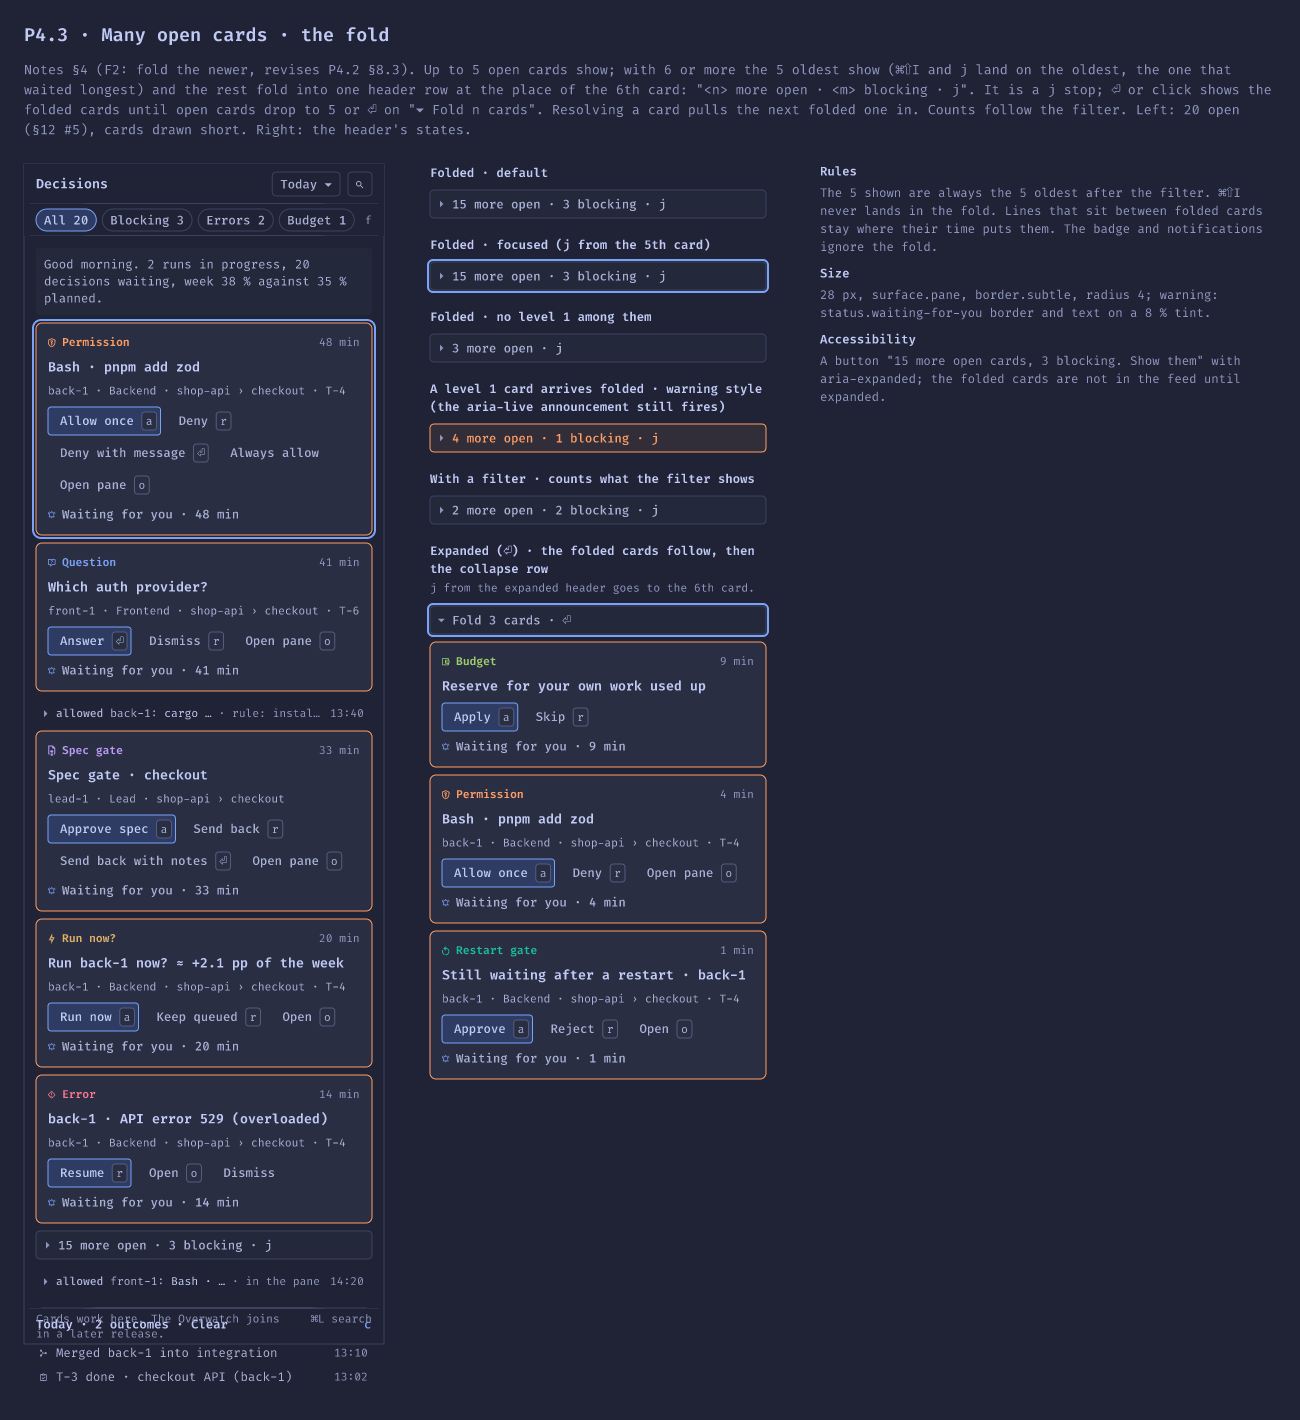
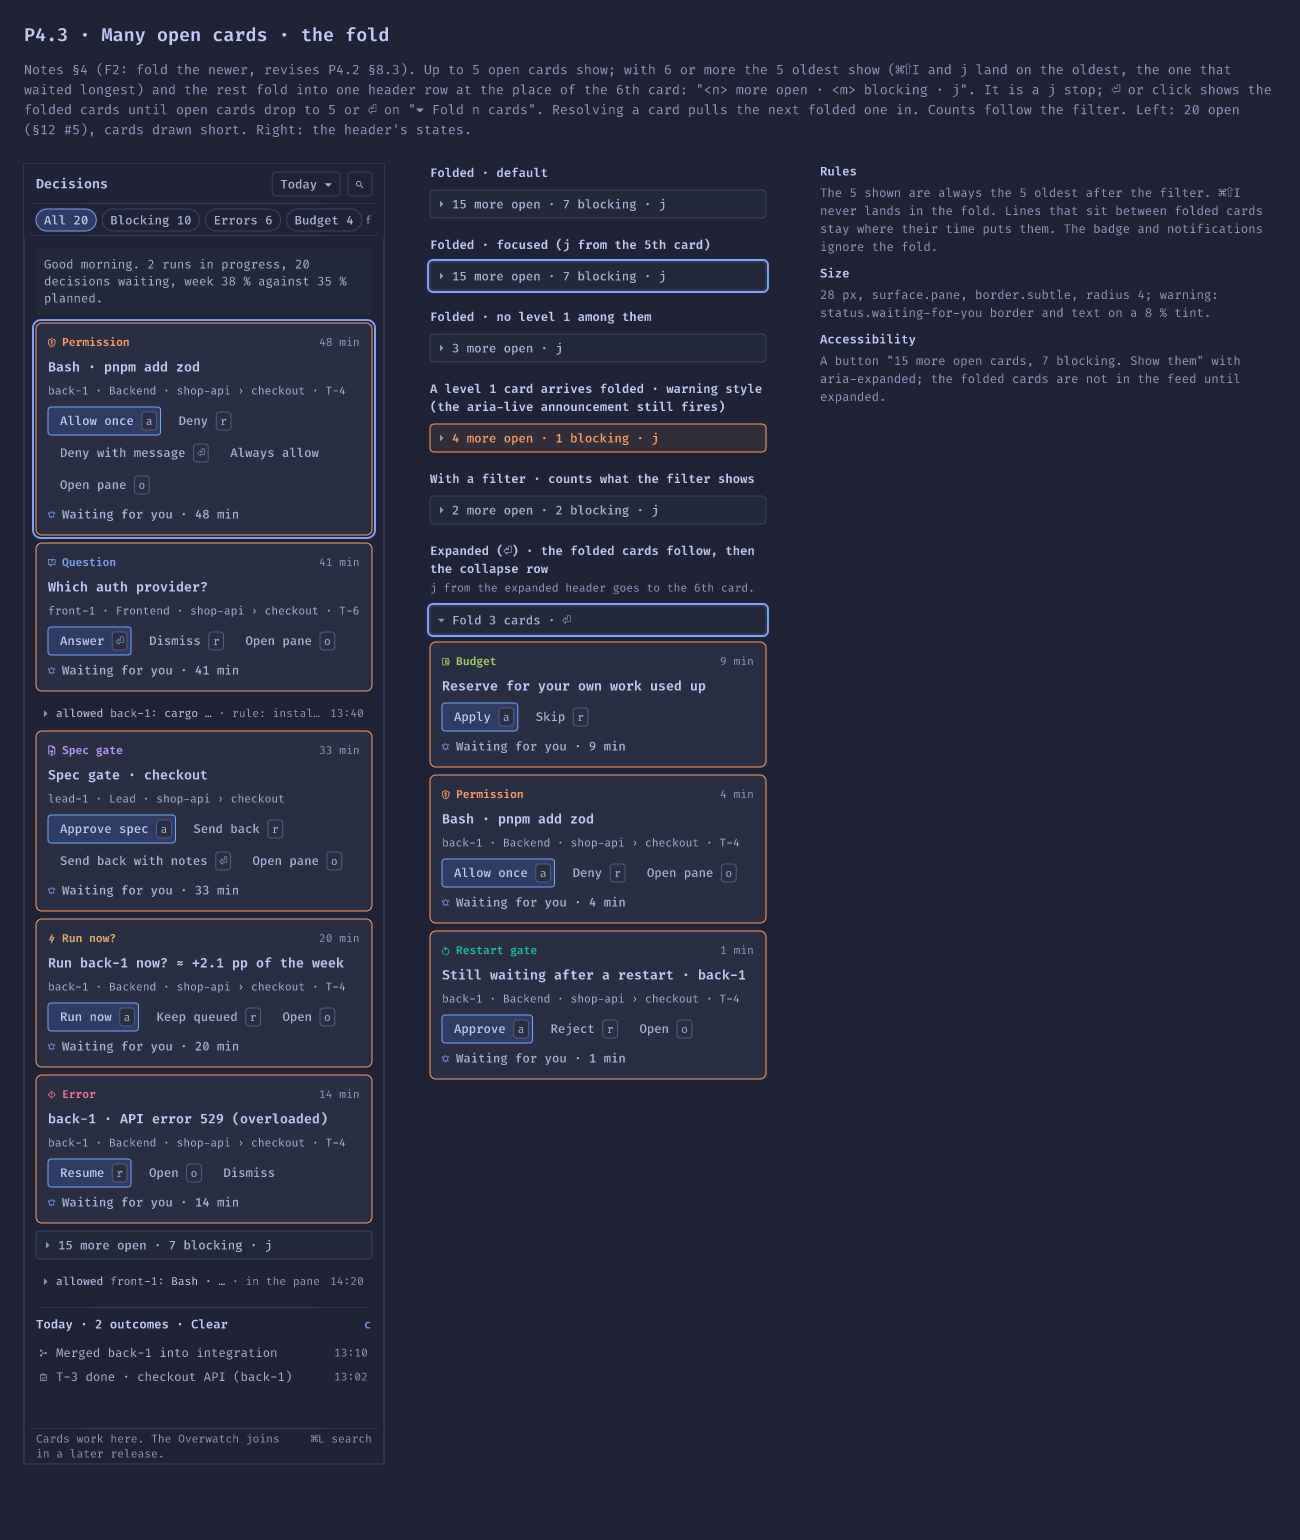
design(p4.3): review fixes to notes and boards
- notes: f filter sides in §10.3, impossible "· expired" lines removed
  from §2.3, accent token name, search of open cards gated on F9, active
  zero chip stays visible, a/r per-kind keys (Reconnect, Resume), 1728
  and 316/292 widths, expired toast copy.
- README: P4.3 paragraph after P4.2, 04.5 Inbox marked as history.
- boards: fold column no longer overlaps the footer, chip and fold counts
  add up, P4.4 slot clear of the day button, lines table matches §2.3,
  mono pane excerpts stay inside their block with a scroll fade.
- re-exported p43-cards-kinds, -column-anatomy, -lines, -fold.

diff --git a/docs/design/p4-3-design-notes.md b/docs/design/p4-3-design-notes.md
@@ -95,7 +95,7 @@ When `by_detail` is missing for a rule, the tail is `· rule`. The verb `expired
 | `verb` | by you | by rule | in the pane | expired | by the app |
 |---|---|---|---|---|---|
 | allowed | `▸ allowed back-1: cargo add serde_json` | `… · rule: installs` | `… · in the pane` | (parks, no line) | — |
-| denied | `▸ denied back-1: rm -rf build` | `… · rule: no-rm` | `… · in the pane` | `… · expired` | — |
+| denied | `▸ denied back-1: rm -rf build` | `… · rule: no-rm` | `… · in the pane` | (parks, no line) | — |
 | answered | `▸ answered front-1: Which auth provider?` | — | `… · in the pane` | — | — |
 | approved | `▸ approved lead-1: Spec gate · checkout` | — | — | — | — |
 | sent back | `▸ sent back lead-1: Spec gate · checkout` | — | — | — | — |
@@ -104,7 +104,7 @@ When `by_detail` is missing for a rule, the tail is `· rule`. The verb `expired
 | applied | `▸ applied: Reserve for your own work used up` | — | — | `… · expired` | — |
 | skipped | `▸ skipped: Reserve for your own work used up` | — | — | — | — |
 | kept queued | `▸ kept queued back-1: Run back-1 now? ≈ +2.1 pp` | — | — | `… · expired` | — |
-| started (run now) | `▸ started back-1: Run back-1 now? ≈ +2.1 pp` | — | — | `… · expired` | — |
+| started (run now) | `▸ started back-1: Run back-1 now? ≈ +2.1 pp` | — | — | — (expiry keeps it queued) | — |
 | dismissed | `▸ dismissed front-1: front-1 did not start` | — | — | — | `… · by the app` |
 | expired | — | — | — | `▸ expired back-1: Bash · pnpm add zod` | — |
 | interrupted | — | — | `▸ interrupted back-1: Bash · pnpm add zod · in the pane` | — | `… · by the app` |
@@ -156,7 +156,7 @@ When `by_detail` is missing for a rule, the tail is `· rule`. The verb `expired
 
 ## 5. Header filter (point 5, D6)
 
-- Row under the title, 32 px: chips **All n · Blocking n · Errors n · Budget n**, counts are **open cards** (levels 1, 2, 3; same tests as `FILTERS` in `lib/inbox.js`). Zero-count chips other than All are hidden. The whole row is hidden when fewer than 2 cards are open and the filter is All (an active filter keeps it visible) and on a past day.
+- Row under the title, 32 px: chips **All n · Blocking n · Errors n · Budget n**, counts are **open cards** (levels 1, 2, 3; same tests as `FILTERS` in `lib/inbox.js`), so Blocking + Errors + Budget = All. Zero-count chips other than All and the active one are hidden (an active chip whose cards all closed shows its 0 until the filter changes). The whole row is hidden when fewer than 2 cards are open and the filter is All (an active filter keeps it visible) and on a past day.
 - Applies to **cards only**: open, parked, failed, stale cards. Lines, the morning line, the fold header's count (after filtering), the digest, separators are never filtered. The title bar badge ignores the filter.
 - **A filter that hides open cards says so**, in a strip under the chips (replaces the filter row's bottom edge, 28 px, warning-neutral):
   `Showing Blocking · 2 of 5 open cards. 3 hidden · Show all`
@@ -194,7 +194,7 @@ A centred small-caps label with a hairline on each side, 24 px, muted: `SUN 1 NO
 ### 6.4 Search
 - ⌘L, `/` or the 🔍 button turns the header's title row into a field (full width, 40 px): placeholder **"Search decisions and lines"**, a clear ✕ when typed, `Esc` to close. Matches what `chat_search` matches (line text, agent, card title and summary, morning text); case-insensitive; today included.
 - Under 2 characters nothing is searched; below the field: "Type 2 or more characters." Debounce 200 ms. Loading: "Searching…". 
-- **Results** replace the thread (the filter row is hidden), newest first, grouped by day separators. Each result is two rows: row 1 the line as in §2.2 (open cards: kind label + title with a "waiting" mark: `● Permission · Bash · pnpm add zod`), row 2 muted: `Sun 1 Nov · 14:02`. The match is not highlighted (substring on fields not all shown). Header of the list: **"4 results for “serde”"** ("1 result for…"; at the limit: "First 50 results for “serde”. Narrow the search.").
+- **Results** replace the thread (the filter row is hidden), newest first, grouped by day separators. Each result is two rows: row 1 the line as in §2.2 (open cards, once back matches open decisions (F9; until then an open entry has no text, line or card to match): kind label + title with a "waiting" mark: `● Permission · Bash · pnpm add zod`), row 2 muted: `Sun 1 Nov · 14:02`. The match is not highlighted (substring on fields not all shown). Header of the list: **"4 results for “serde”"** ("1 result for…"; at the limit: "First 50 results for “serde”. Narrow the search.").
 - `↓` from the field enters the results; `j/k` move once inside; `⏎` on a result opens it: today's entry → close the search, scroll the thread to it and expand it with the §8.1 highlight; an earlier day → open that day (§6.2) with the entry scrolled to and expanded. Search is kept when going back (`Esc` from a past day opened via search returns to the results; second `Esc` closes the search).
 - **No results**: "Nothing found for “serde” in decisions and lines." Error: "Could not search: <why> · Retry".
 - `Esc` order: clear the text (first press, if any) → close the search and return to the thread → (next press) focus returns to the centre.
@@ -232,7 +232,7 @@ Nothing is decided by arriving; no action fires.
 ### 8.2 The decision already closed
 `focus_card` for a decision that is no longer open focuses **the next open card** (the oldest) and shows a toast (6 s, info) that says what happened to it from its `line`:
 
-`Already <verb> <by> · <time>` — verbs from §2.3 in the past form they already have; by: you → "by you", rule → "by rule installs", pane → "in the pane", expired → "(expired)", core → "by the app".
+`Already <verb> <by> · <time>` — verbs from §2.3 in the past form they already have; by: you → "by you", rule → "by rule installs", pane → "in the pane", expired → "(expired)" ("Already kept queued (expired) · 14:20"; the verb `expired` takes no `<by>`), core → "by the app".
 
 | Closed how | Toast |
 |---|---|
@@ -269,7 +269,7 @@ Widths (P4.2 §4 stand; sidebar 240 or the 56 px rail below 1512; centre min 640
 |---|---|---|---|---|
 | 1280 | rail 56 | 884 | **340** | overlay in the chat's slot (340) |
 | 1512 | 240 | 912 | 360 | overlay in the chat's slot (360) |
-| 1728 | 240 | 808 | 360 | **docked 320** (240+808+360+320 = 1728: the Inspector is added to the centre's 808, it does not take from it) |
+| 1728 | 240 | 808 | 360 | **docked 320** (240+808+360+320 = 1728: the docked Inspector takes its 320 from the centre, which would otherwise be 1128) |
 
 - The chat spans from under the title bar to above the status bar, full height. The **shell dock** (⌘J) sits under the **centre only**; the chat column is never covered by it.
 - **Inspector overlay** (below 1728), ⌘I toggles, `Esc` or ⌘I closes (P4.2 §4 rules 1–5):
@@ -280,7 +280,7 @@ Widths (P4.2 §4 stand; sidebar 240 or the 56 px rail below 1512; centre min 640
   - Crossing 1728 keeps the user's open/closed state.
 - **Docked at 1728**: the chat and the Inspector sit side by side; no banner (the chat is visible).
 - **Zoomed pane** (⌘; z): zoom enlarges a pane within the **centre**; **the chat stays** (it is not in the tiling tree). The Inspector's overlay still works over it. Reason: oversight must not be one pane toggle away from hidden (F6). The 1280 zoomed terminal is therefore 884 × content height.
-- Minimum widths: card content 316 px (340 column − 2×12 padding); blocks wrap, long tokens break (`overflow-wrap: anywhere`), mono blocks scroll horizontally inside the block, buttons wrap to rows with each label + key together (no clipped button).
+- Minimum widths: card 316 px (340 column − 2×12 column padding), content 292 px inside the card's own 12 px padding (§13); blocks wrap, long tokens break (`overflow-wrap: anywhere`), mono blocks scroll horizontally inside the block, buttons wrap to rows with each label + key together (no clipped button).
 - Page 03 frames: P4.2 row at 1280 (rail + centre + 340 chat), 1512 (overlay closed, overlay open with banner), 1728 (docked), zoomed pane at 1280, dock open at 1512. Draw the chat with the P4.3 states of §12 (a card open, a line, the fold off).
 
 ---
@@ -301,8 +301,8 @@ Widths (P4.2 §4 stand; sidebar 240 or the 56 px rail below 1512; centre min 640
 | `j` `k` / ↓ ↑ | Next / previous **open card**; skips lines; the fold header and the digest header are stops | any |
 | `Tab` / `⇧Tab` | Move through every focusable thing: header controls, reference links, lines, fold header, digest rows | any |
 | `⏎` | The card's default action (Answer · Reply · Send back with notes — as in the Inbox); expands/collapses a line; expands a fold; follows a "↳ after" reference; opens a search result | card · line · header |
-| `a` | Primary action (Allow once · Approve · Apply · Run now · Restart fresh) | open/parked card |
-| `r` | Secondary (Deny · Send back · Reject · Skip · Keep queued · Dismiss for a question) | open card |
+| `a` | Primary action (Allow once · Approve · Apply · Run now · Restart fresh · Reconnect) | open/parked card |
+| `r` | Secondary (Deny · Send back · Reject · Skip · Keep queued · Dismiss for a question or an alert); on an error card **Resume** (its primary, as in the Inbox) | open card |
 | `o` | Open pane / PR / outcome / Notion page | card · outcome row |
 | `x` | Mark the card for the batch (Inbox batch behaviour), then `a` / `r` apply to all marked | open card |
 | `u` | Undo the last decision within 5 s | any |
@@ -321,7 +321,7 @@ Other keys do nothing (no beep). In the reply area and the search field every ke
 |---|---|
 | **Global chords** | ⌘⇧I and ⌘L are unclaimed elsewhere (`keyboard.js` CHORDS has no ⌘L). Both work from a terminal pane (⌘ chords never reach the PTY). The command id `inbox` becomes `decisions`. |
 | **Leader keys** (⌘; then s v h j k l z t ] [ e w p o g) | None: the leader consumes the next key. `[`/`]` and `t` here are bare keys with the chat focused; ⌘; ] / [ are the dock. `⌘; w` (next waiting agent) is unrelated to `j/k`. |
-| **Mission control map** (j k h l ⏎ space i p s r ⇧K d n f o ⌫) | **Shared letters, same screen now**: both panes are visible together, so the focus ring decides. `j/k` same meaning in both. **`r` = Resume in Mission control, Reject/Deny/Skip in the chat** (F2 of P4.2, now on one screen): mitigations — the focused region's header takes an accent underline, the card carries its own `r` label on the button, and Mission control's hint row shows `r resume`. `⏎` replies in the chat, opens a session in Mission control. `o` opens "the thing" in both. `f` filters in both (levels there, projects here). `d` is the bridge: Mission control `d` focuses that decision's card in the chat. `i p s h l n space ⇧K ⌫` are unbound in the chat and do nothing. `x u e a c t [ ] /` are unbound in Mission control. |
+| **Mission control map** (j k h l ⏎ space i p s r ⇧K d n f o ⌫) | **Shared letters, same screen now**: both panes are visible together, so the focus ring decides. `j/k` same meaning in both. **`r` = Resume in Mission control, Reject/Deny/Skip in the chat** (Resume only on an error card) (F2 of P4.2, now on one screen): mitigations — the focused region's header takes an accent underline, the card carries its own `r` label on the button, and Mission control's hint row shows `r resume`. `⏎` replies in the chat, opens a session in Mission control. `o` opens "the thing" in both. `f` filters in both (projects there, levels here). `d` is the bridge: Mission control `d` focuses that decision's card in the chat. `i p s h l n space ⇧K ⌫` are unbound in the chat and do nothing. `x u e a c t [ ] /` are unbound in Mission control. |
 | **Text fields** (reply, search) | They swallow single keys; `Esc` leaves. |
 | **Terminal panes** | Chat keys never fire in a terminal; the chat is a separate focus target. After `Esc` focus returns to the pane (terminal) that had it. |
 | **Palette / dialogs** | A dialog takes ⌘⏎ / ⏎ / Esc first. |
@@ -427,4 +427,4 @@ On page 04.3, give each of these five cards its own subject line, blocks and act
 
 Clipping rules for all cards (also the other kinds): card width 336 (316 at 1280: column minus 2×12 column padding, §9); card padding 12; blocks wrap and break long tokens; tool-call and pty blocks keep mono and scroll horizontally inside their frame with a fade at the edge, collapsed past 6 lines ("Show 14 more lines"); action buttons wrap to a second row, each label and its `Kbd` stay together; a marker line wraps to two lines, never truncates. Check every kind at 340.
 
-Also on 04.3 (the P4.3 additions, brief §3): header with day button and search, filter row and strip, collapsed lines per verb (§2.3), the reference line (§3), the fold header (§4), the digest states (§7), day separators (§6.3), past day and search results (§6), the notification highlight (§8.1), every row of §12. Page 05: §10. Page 03: §9. Page 06: J5 storyboard in the chat, 4–6 frames: (1) a permission card arrives with a notification; (2) `a`, "Allowing once · Undo u"; (3) "Allowed · back-1 resumed"; (4) 10 s later it is a line; (5) a rule-answered permission arrives as a line only, with no notification; (6) `⏎` expands a line. `00 Cover` and the README: P4.3 rows **In review**; no new token is expected (accent tint 12 % reuses `--color-accent`; if the pulse needs a token, add `--color-accent-wash` to `tokens.json`).
+Also on 04.3 (the P4.3 additions, brief §3): header with day button and search, filter row and strip, collapsed lines per verb (§2.3), the reference line (§3), the fold header (§4), the digest states (§7), day separators (§6.3), past day and search results (§6), the notification highlight (§8.1), every row of §12. Page 05: §10. Page 03: §9. Page 06: J5 storyboard in the chat, 4–6 frames: (1) a permission card arrives with a notification; (2) `a`, "Allowing once · Undo u"; (3) "Allowed · back-1 resumed"; (4) 10 s later it is a line; (5) a rule-answered permission arrives as a line only, with no notification; (6) `⏎` expands a line. `00 Cover` and the README: P4.3 rows **In review**; no new token is expected (accent tint 12 % reuses `--color-accent-default`, token `color.accent.default`; if the pulse needs a token, add `--color-accent-wash` to `tokens.json`).

diff --git a/docs/design/README.md b/docs/design/README.md
@@ -14,7 +14,7 @@ The UI source of truth is the FigCraft file [`Orchestrator.figcraft`](Orchestrat
 | 04.2 Mission control | **P4.2**: Mission control (fixture, row types, filter, row details, states, 1280 density), session watch mode and take-over, Inspector agent / run / decision | **P4.2 Part A In review** |
 | 04.3 Chat column | **P4.2 Part B**: decision cards per kind and lifecycle, collapsed lines, rule proposal, morning line, chat column states. **P4.3**: D15 fixed on "Chat · cards per kind" (restart gate, run now, PR gate, budget, Notion get their own bodies; prose wraps in the card); boards "P4.3 · …" (rows at y = 2200, 3720, 4950): column anatomy (header, filter, strips, footer without the Overwatch), collapsed lines per verb × who (+ line states, ↳ reference, collapse), many open (fold), older days, search, digest, notification-opened card, column states 1–2 (§12 matrix). Boards for P4.4 only are titled "(P4.4)": card lifecycle "deciding", Part B collapsed lines (undo on lines), rule proposal, Part B column states (Overwatch status, input) | **P4.2 Part B In review** · **P4.3 In review** |
 | 04.4 Feature & board | **P2**: Team canvas, Feature, Board, Launch on feature dialog. **P3**: inspector MCP and downgrade, presets, Feature Design and preview, Notion publish (+ states) | **P2 Ready for dev** · **P3 In review** |
-| 04.5 Inbox | P1 Inbox, PR update gate states | P1 Ready for dev |
+| 04.5 Inbox | P1 Inbox, PR update gate states (history: the Inbox pane is removed in P4.3, its cards are on 04.3) | P1 Ready for dev |
 | 04.6 Planner & reports | P1 Week planner. **P3**: Weekly report, model windows and off-hours (+ states) | P1 Ready for dev · **P3 In review** |
 | 04.7 Settings | **P3**: Settings Integrations and MCP servers (+ states), Project settings Linear (+ states) | **P3 In review** |
 | 05 Keyboard & copy | Global, leader and pane-local shortcut maps (**P2**: Team canvas, Board, Feature rows); P0 conflicts; banner, notification and toast copy; copy rules. **P4.2**: Mission control keys, leader `o`, conflicts. **P4.3**: "P4.3 · Chat keys" (⌘⇧I, ⌘L, chat map, conflicts, palette); the Inbox row of the pane-local map removed; "Inbox" strings reworded | P1 Ready for dev · **P2 Ready for dev** · **P4.2 In review** · **P4.3 In review** |
@@ -30,9 +30,9 @@ The UI source of truth is the FigCraft file [`Orchestrator.figcraft`](Orchestrat
 
 **P4.1 (One now, 2026-10-29):** components only, no screen and no layout change (decision D10); the full P4 gate (new shell, Mission control, cards) is due before P4.2. Copy and states: [p4-design-notes.md](p4-design-notes.md).
 
-**P4.3 (Chat & cards, 2026-11-02):** design pass **In review** on 03, 04.3, 05, 06 and the Cover (decision D1: the column is drawn without the Overwatch; P4.4-only parts stay on 04.3, titled "(P4.4)"). Copy, states and keys: [p4-3-design-notes.md](p4-3-design-notes.md). No new token: the notification-opened pulse is `color.accent.default` at 12 % opacity. Exports: `.orchestrator/features/p-4-3-chat-and-cards/design/` (`p43-*.png`). The boards are built from SVG generated off the notes (FigCraft `file.import`), so their layers are plain shapes and text, not component instances; the card anatomy and blocks stay the P4.1 / P4.2 components.
-
 **P4.2 (Mission control, 2026-10-29):** the P4 gate (SPEC §9.0) is split (decision D1). **Part A** (shell, Mission control, session over the board, Inspector variants, keys) blocks front and is **In review**; **Part B** (cards per kind and lifecycle, collapsed lines, rule proposal and chat column states on 04.3; J12 storyboard on 06.1) is **In review** too. Copy, states and keys: [p4-2-design-notes.md](p4-2-design-notes.md). Exports: `.orchestrator/features/p-4-2-mission-control/design/`.
+
+**P4.3 (Chat & cards, 2026-11-02):** design pass **In review** on 03, 04.3, 05, 06 and the Cover (decision D1: the column is drawn without the Overwatch; P4.4-only parts stay on 04.3, titled "(P4.4)"). Copy, states and keys: [p4-3-design-notes.md](p4-3-design-notes.md). No new token: the notification-opened pulse is `color.accent.default` at 12 % opacity. Exports: `.orchestrator/features/p-4-3-chat-and-cards/design/` (`p43-*.png`). The boards are built from SVG generated off the notes (FigCraft `file.import`), so their layers are plain shapes and text, not component instances; the card anatomy and blocks stay the P4.1 / P4.2 components.
 
 ## Screenshots
 
